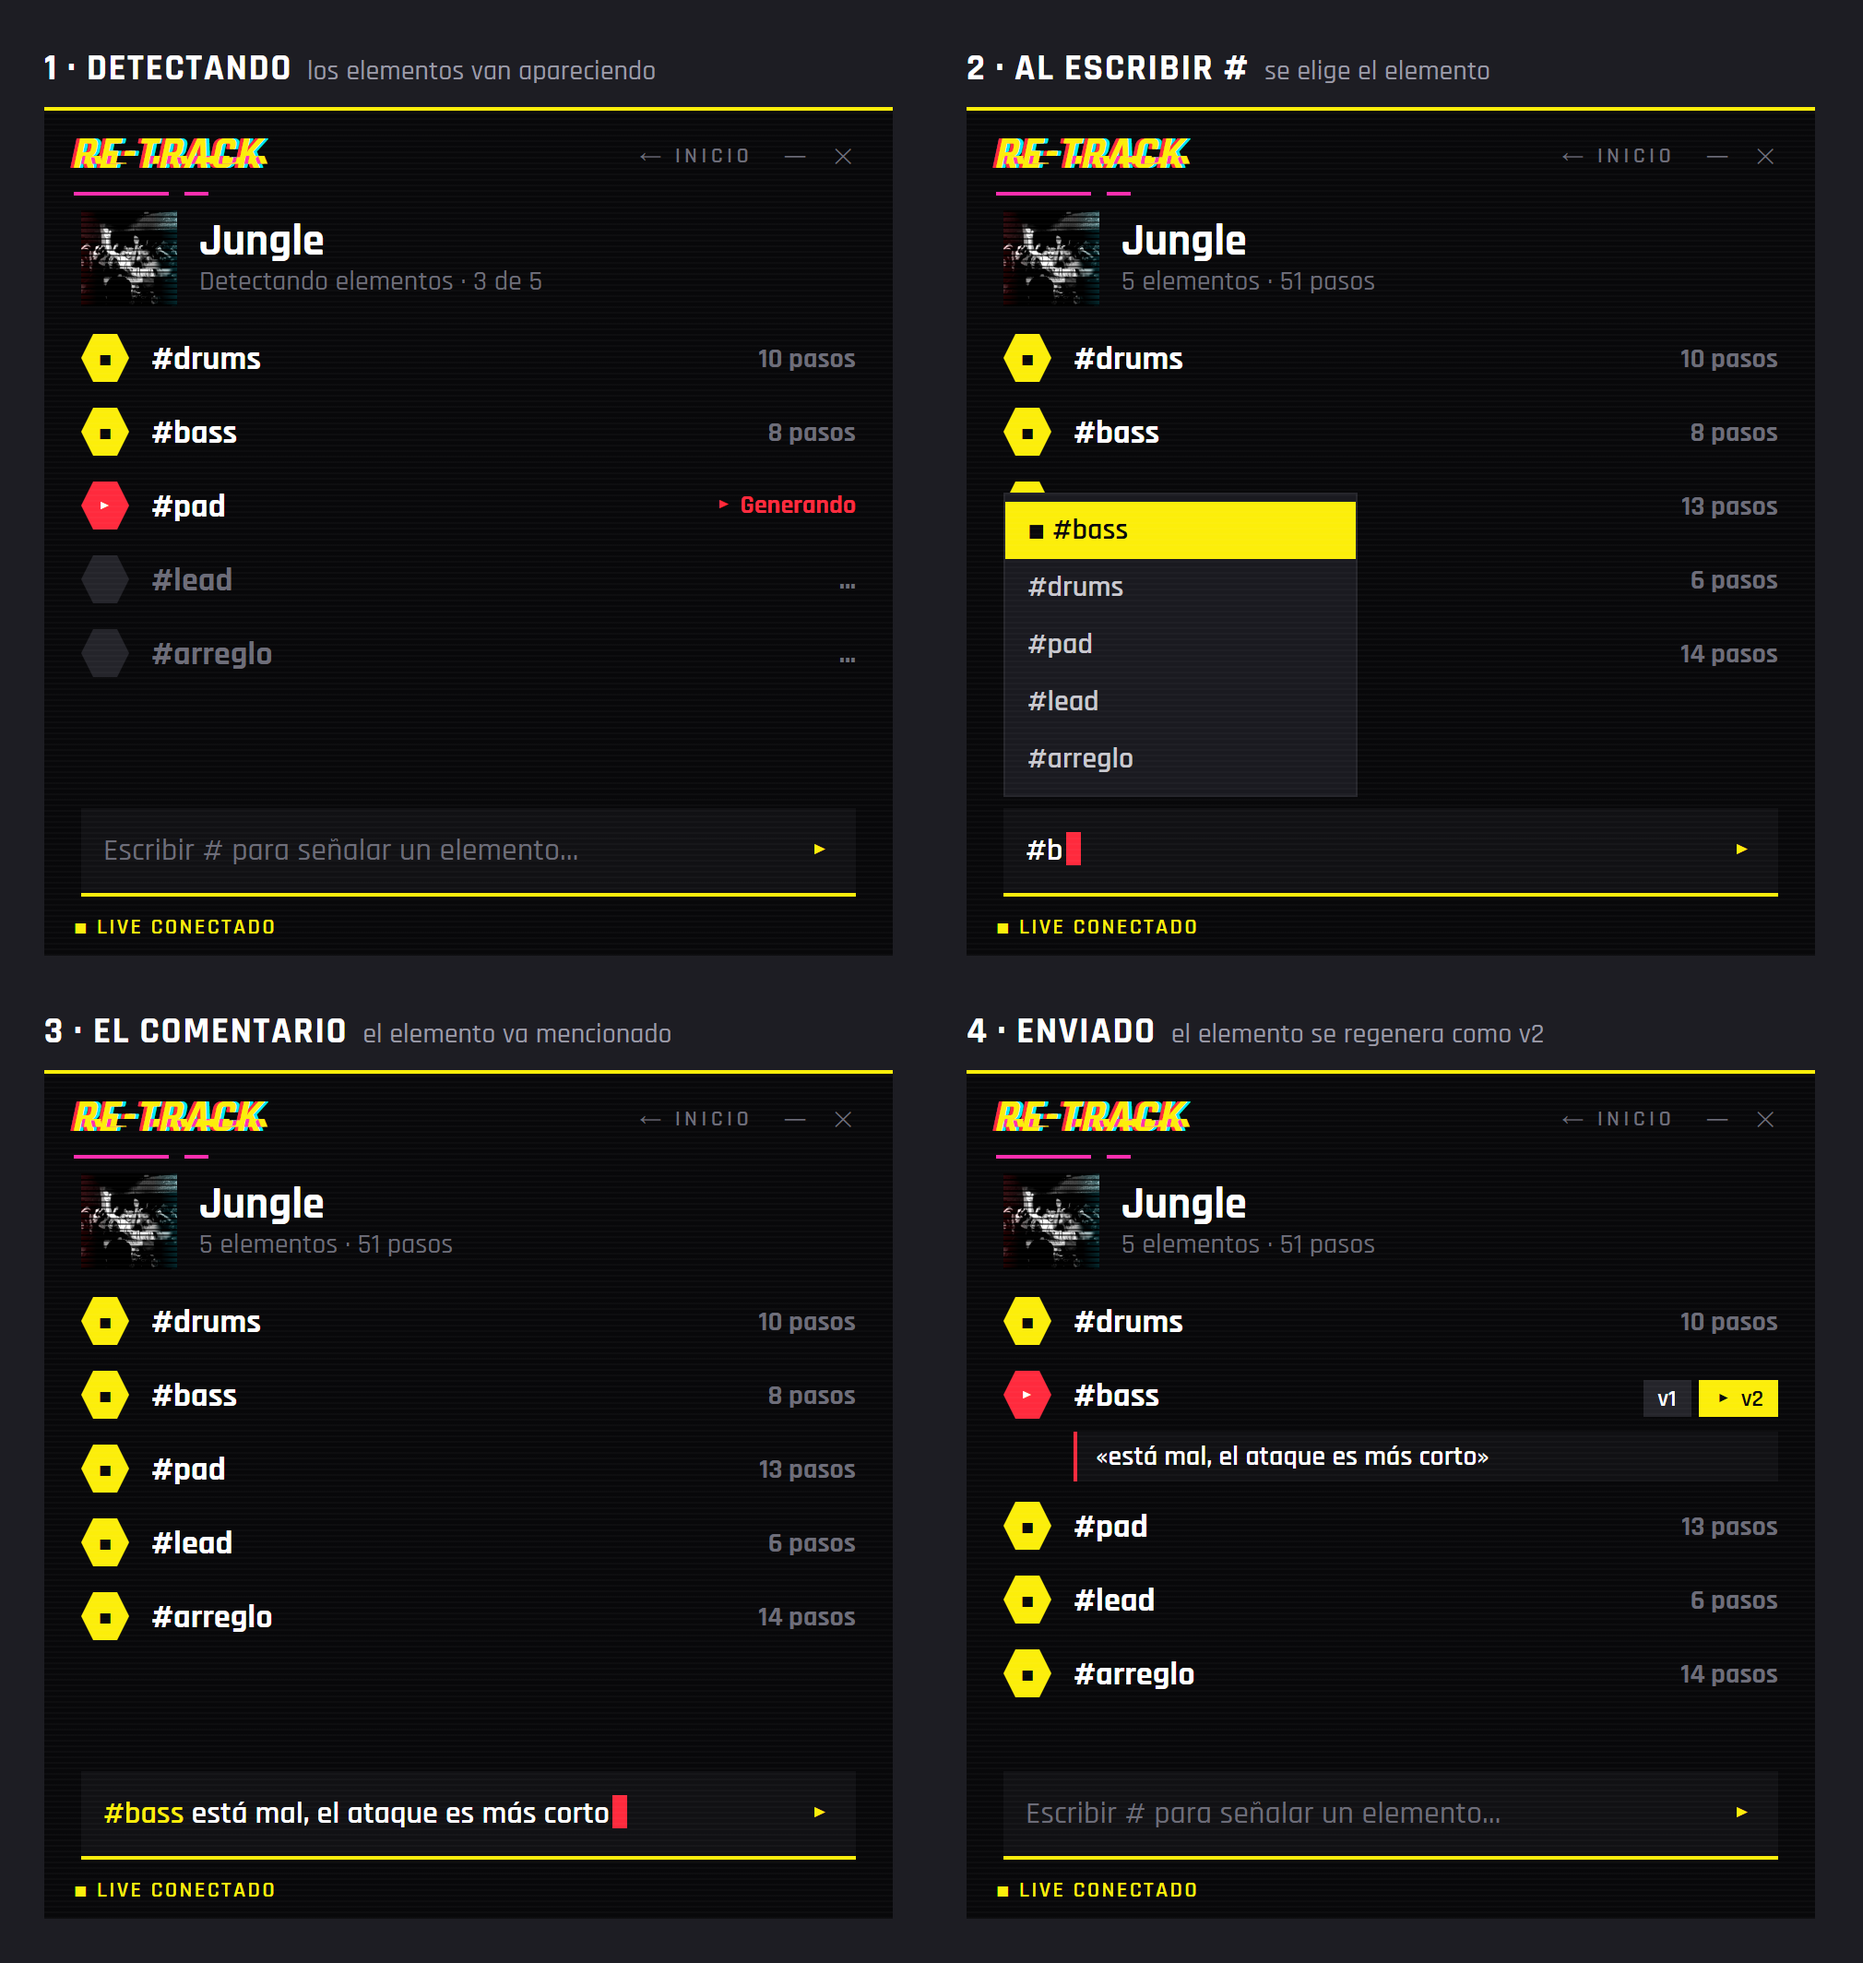
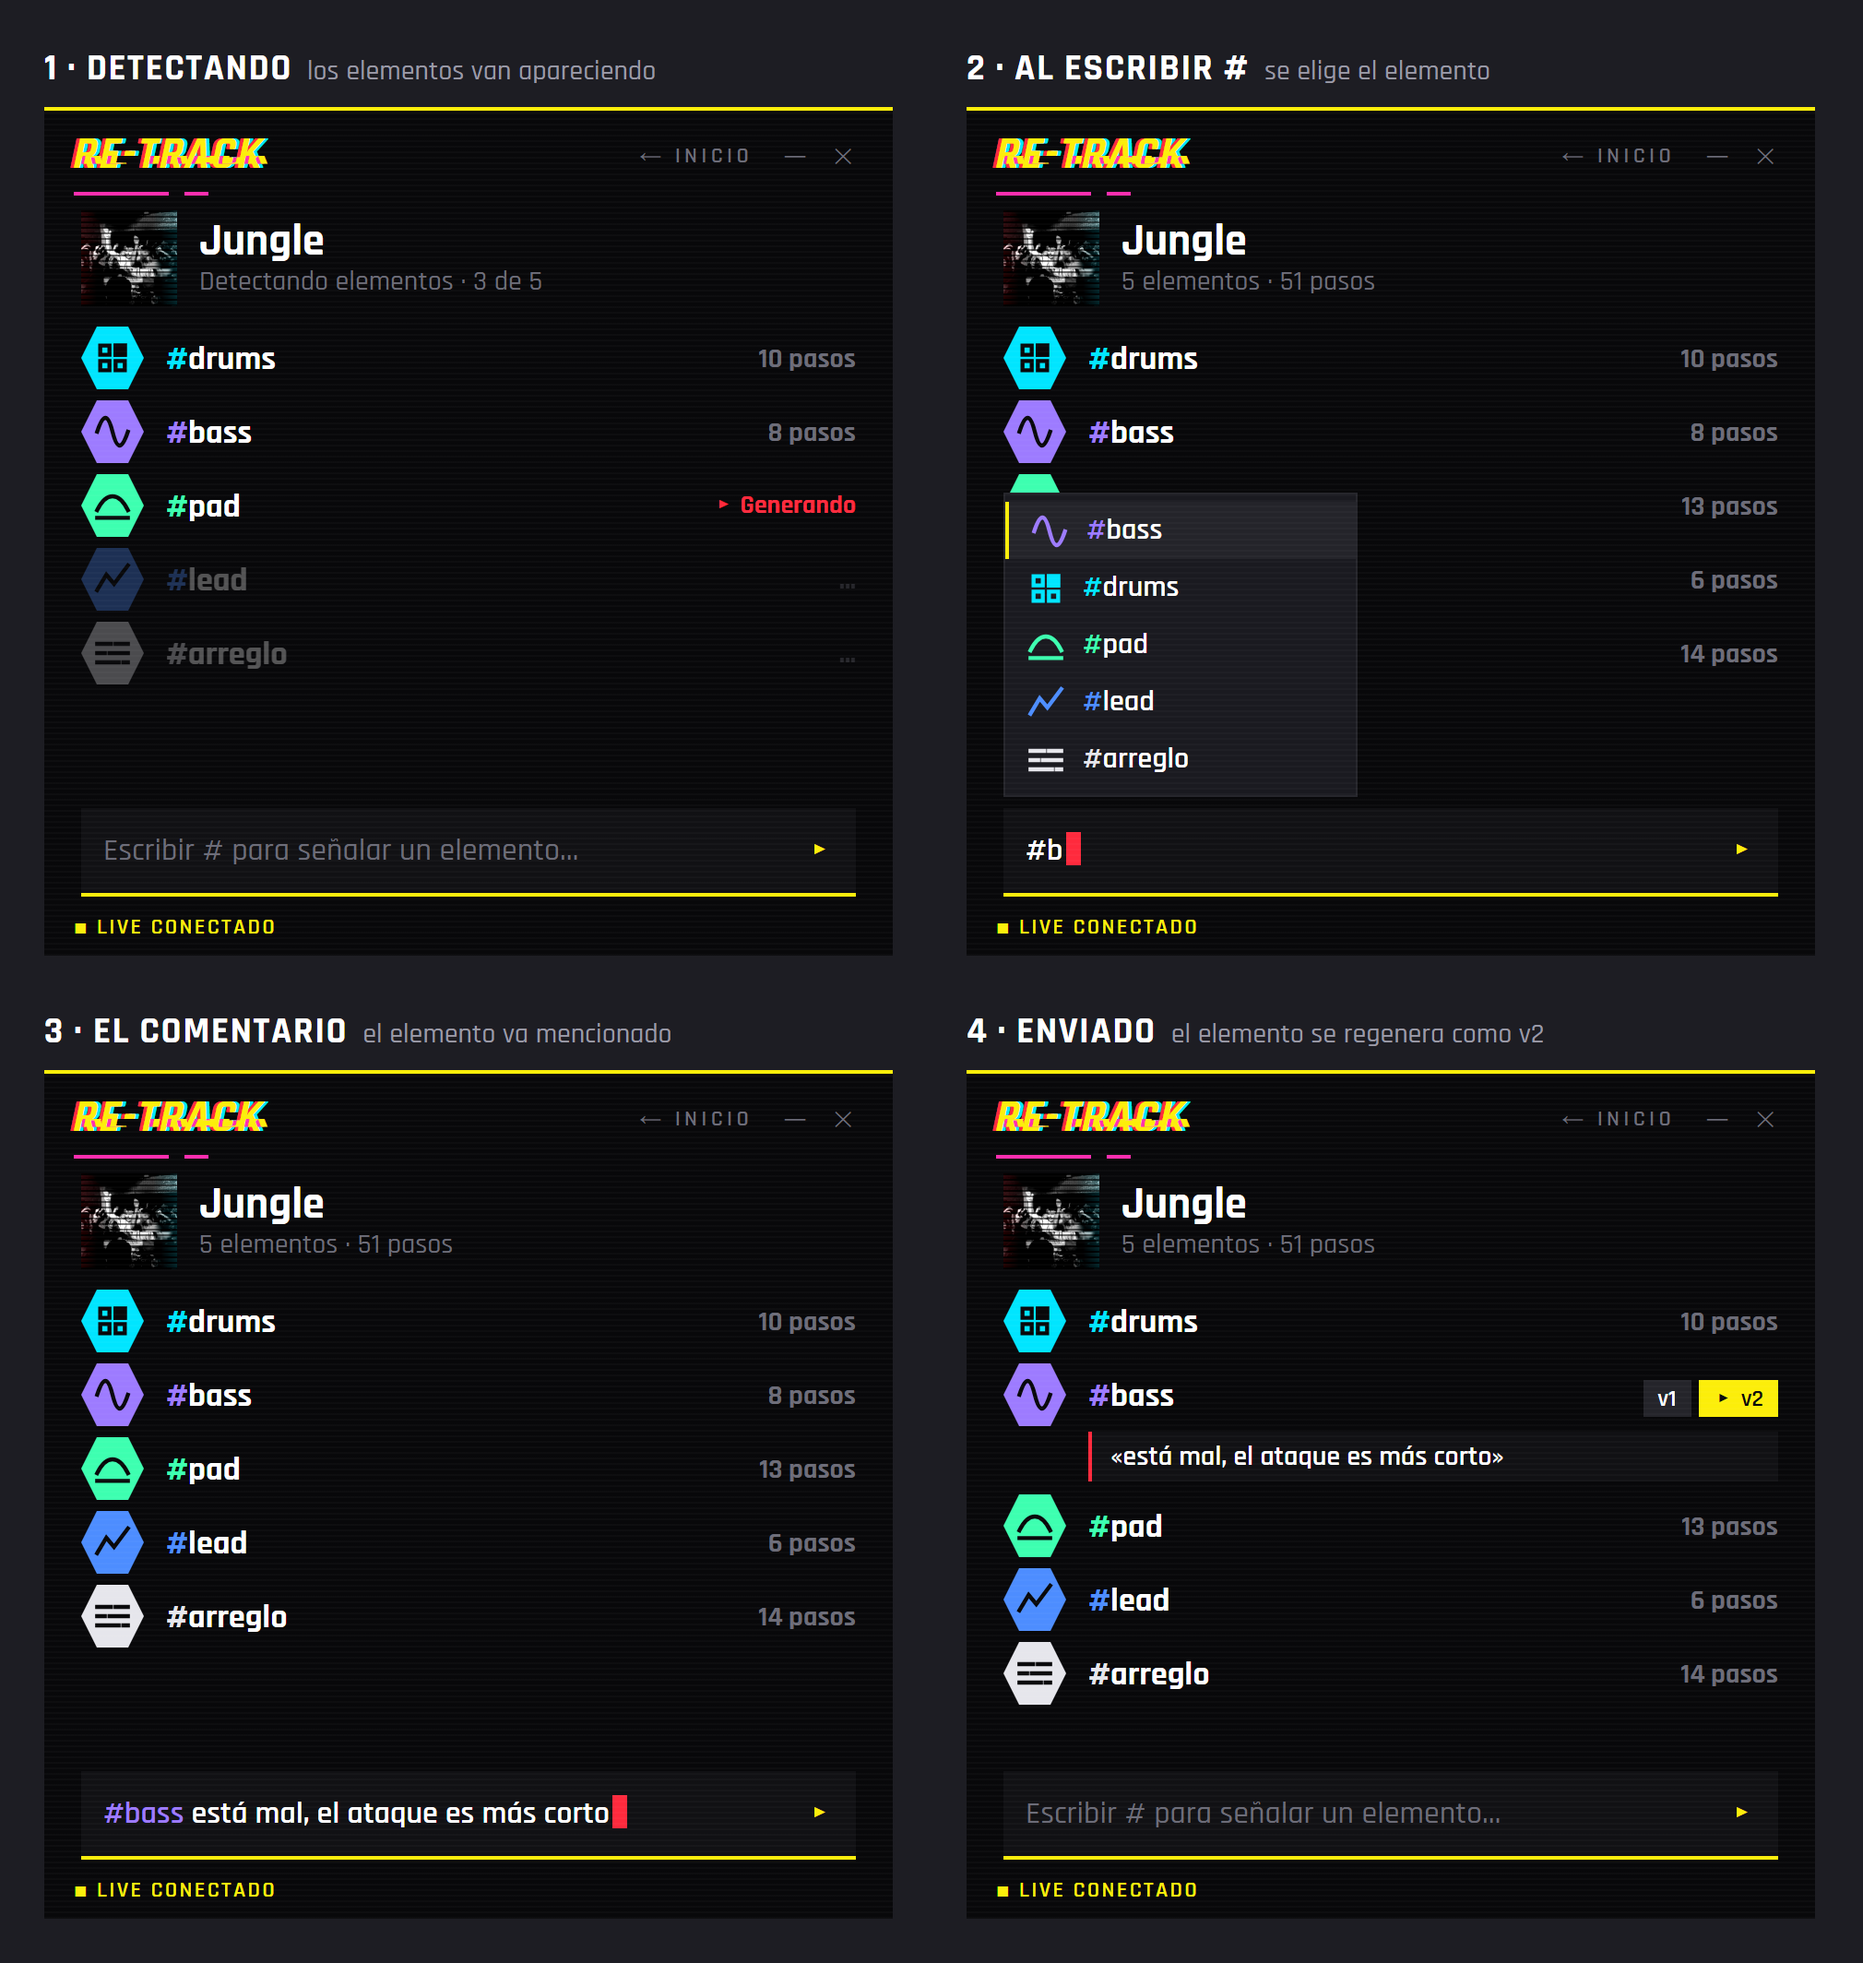
Docs: review screen approved, with its feature record (FDR-005)

diff --git a/docs/fdr/FDR-005-pantalla-de-revision.md b/docs/fdr/FDR-005-pantalla-de-revision.md
@@ -1,0 +1,48 @@
+# FDR-005: Pantalla de revisión (elementos y barra con #)
+
+**Status:** Draft (diseñada, sin construir)
+**Last reviewed:** 2026-11-24
+
+## Overview
+
+Es donde se ve lo que la IA saca de una canción y se le corrige. La IA detecta los elementos (drums, bass, pad, lead, arreglo…) y abajo hay una barra donde se menciona un elemento con `#` para decir qué está mal. Se llega tras «Generar» en la pantalla de nueva lección (FDR-004). Aspecto objetivo: `docs/design/revision/objetivo.html` (y su captura `objetivo.png`); se copia fielmente.
+
+## Behavior
+
+- Arriba, la canción con su carátula (la carátula VHS de FDR-003) y una línea de estado: «Detectando elementos · 3 de 5» o «5 elementos · 51 pasos».
+- Una fila por elemento, con su dibujo y su color propios (ADR-014), su nombre con `#` y sus pasos. Mientras se genera dice «▸ Generando» en rojo; un elemento aún sin detectar se ve apagado.
+- Abajo, la barra de comentario. Al escribir `#` sale la lista de elementos para elegir uno; el elemento mencionado queda escrito en su color.
+- Al enviar, el comentario queda pegado debajo de su elemento, que se regenera como versión nueva (v2). La v1 se guarda y se puede volver a ella desde las etiquetas «v1 | v2» de la fila.
+- La barra queda libre para otro comentario mientras un elemento se regenera.
+
+## Design Decisions
+
+### 1. Lista de elementos y barra con #
+
+**Decision:** Una sola pantalla con los elementos detectados y una barra de texto, en vez de un panel por elemento.
+**Why:** Pedido por Matthieu el 2026-11-24, según su dibujo del 2026-11-03: que detecte los elementos de la canción y que una barra abajo permita mencionarlos con `#` y decir «esto está mal». Las cuatro propuestas anteriores (`propuestas.html`) quedan descartadas.
+**Tradeoff:** El comentario va al elemento entero, no a un paso concreto.
+
+### 2. Cada elemento se ve distinto
+
+**Decision:** Dibujo y color propios por tipo de elemento; amarillo y rojo solo como señal.
+**Why:** Matthieu, 2026-11-24: «dar personalidad a los elementos». Detalle y colores en ADR-014.
+**Tradeoff:** El estado ya no puede ir en el color del hexágono; va aparte con su símbolo.
+
+### 3. Corregir no borra
+
+**Decision:** Un comentario crea una versión nueva del elemento y conserva la anterior.
+**Why:** `docs/DESIGN.md`, «Visión ampliada»: nunca se pierde una lección que funcionaba.
+**Tradeoff:** Hay que guardar y enseñar versiones.
+
+## Related
+
+- **ADRs:** ADR-013, ADR-014
+- **FDRs:** FDR-003, FDR-004
+
+## Open Questions
+
+- Cómo se comparan elementos entre sí (ADR-014: hace falta, el cómo está sin decidir).
+- Cómo se escucha un elemento antes de darlo por bueno.
+- Qué se ve al terminar: cómo se pasa de aquí a la lección ya lista.
+- Dibujo y color para los tipos que aún no tienen (voz, fx…).

diff --git a/docs/DESIGN.md b/docs/DESIGN.md
@@ -48,7 +48,7 @@ Ventana: 460×460, siempre encima, sin marco. Toda pantalla cabe ahí sin despla
 | Módulo completado | ¿Qué he construido y qué viene? | Sin diseñar (hoy: una línea de texto) |
 | Ajustes | Splice sí/no (ADR-011) | Sin diseñar; llega con el remake runner |
 | Nueva lección (IA) | Generar una lección: subir una canción (v2) o elegir piezas de varias, back to back o mix (v3) | Elegida la D (Receta), 2026-11-24: `docs/design/ia/objetivo.html`, FDR-004; sin construir |
-| Revisión (comentar lo generado) | ¿Está bien lo que ha generado la IA? Comentario pegado a una pieza → versión nueva | Dibujada según lo pedido el 2026-11-24 (elementos detectados y barra con #): `docs/design/revision/objetivo.html`; falta el sí de Matthieu y su FDR |
+| Revisión (comentar lo generado) | ¿Está bien lo que ha generado la IA? Comentario pegado a una pieza → versión nueva | Aprobada el 2026-11-24 (elementos detectados con identidad propia y barra con #): `docs/design/revision/objetivo.html`, FDR-005, ADR-014; sin construir |
 
 Cada pantalla nueva pasa por cuatro propuestas antes de construirse (`CLAUDE.md`, «Diseño»).
 

diff --git a/docs/fdr/INDEX.md b/docs/fdr/INDEX.md
@@ -6,3 +6,4 @@
 | [FDR-002](FDR-002-pantalla-de-paso.md) | Pantalla de paso (Espejo de Live) | Active | 2026-11-24 |
 | [FDR-003](FDR-003-pantalla-de-inicio.md) | Pantalla de inicio (Cartel) | Draft | 2026-11-24 |
 | [FDR-004](FDR-004-pantalla-de-nueva-leccion.md) | Pantalla de nueva lección (Receta) | Draft | 2026-11-24 |
+| [FDR-005](FDR-005-pantalla-de-revision.md) | Pantalla de revisión (elementos y barra con #) | Draft | 2026-11-24 |
